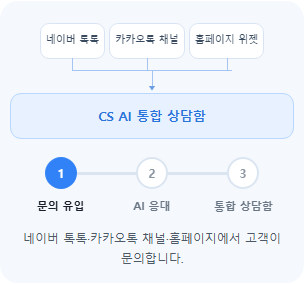
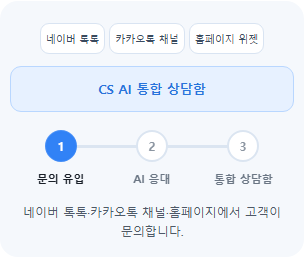
style: remove consultation connector lines

diff --git a/web/step-progress.js b/web/step-progress.js
@@ -11,22 +11,6 @@
     const buttons = [...root.querySelectorAll('.unify-step')];
     const detail = root.querySelector('.unify-step-detail');
     const bar = root.querySelector('.unify-step-bar');
-    const sources = root.querySelector('.unify-source-list');
-    const alignSources = () => {
-      if (!sources) return;
-      const chips = [...sources.children];
-      if (chips.length < 2) return;
-      const box = sources.getBoundingClientRect();
-      const first = chips[0].getBoundingClientRect();
-      const lastChip = chips[chips.length - 1].getBoundingClientRect();
-      const destination = root.querySelector('.unify-destination').getBoundingClientRect();
-      const center = destination.left + destination.width / 2;
-      const reach = Math.max(center - (first.left + first.width / 2), lastChip.left + lastChip.width / 2 - center);
-      sources.style.setProperty('--merge-left', `${center - reach - box.left}px`);
-      sources.style.setProperty('--merge-right', `${box.right - center - reach}px`);
-    };
-    const resizeObserver = new ResizeObserver(alignSources);
-    if (sources) { resizeObserver.observe(sources); alignSources(); }
     const line = spring(0, 160, 22);
     const states = buttons.map(() => ({ fill: spring(0, 260, 24), check: spring(0, 140, 20), pop: spring(1, 500, 14) }));
     let current = 0, visible = false, userUntil = 0, nextAt = performance.now() + 1500, last = performance.now();
@@ -52,7 +36,7 @@
     buttons.forEach((button, i) => button.addEventListener('click', () => select(i, true)));
     select(0);
     function frame(now) {
-      if (!root.isConnected) { observer.disconnect(); resizeObserver.disconnect(); return; }
+      if (!root.isConnected) { observer.disconnect(); return; }
       const dt = Math.min((now - last) / 1000, 1 / 30); last = now;
       if (visible && !reduced.matches && now > nextAt && now > userUntil) select((current + 1) % buttons.length);
       if (!reduced.matches) for (let j = 0; j < 4; j++) { step(line, dt / 4); states.forEach(s => { step(s.fill, dt / 4); step(s.check, dt / 4); step(s.pop, dt / 4); }); }

diff --git a/web/landing.css b/web/landing.css
@@ -87,8 +87,8 @@
 .unify-flow strong{display:block}
 @media(max-width:700px){.landing-benefits-cta button{width:100%;text-align:center}.landing-unify .landing-lead{margin-bottom:30px}.unify-arrow{height:38px}.unify-arrow::before{height:25px}.unify-arrow::after{top:20px}}
 .unify-stepper{margin:22px 0 18px;padding:20px 16px 16px;border-radius:18px;background:#f5f8fc}
-.unify-source-list{position:relative;display:flex;justify-content:center;gap:6px;width:max-content;max-width:100%;min-height:48px;margin-inline:auto;padding-bottom:12px}.unify-source-list::after{content:'';position:absolute;bottom:0;left:var(--merge-left,0px);right:var(--merge-right,0px);height:1px;background:#a4c5f3}.unify-source-list span{position:relative;padding:8px 10px;border:1px solid #d9e4f2;border-radius:9px;background:#fff;color:#3a4b60;font-size:11px;text-align:center;white-space:nowrap}.unify-source-list span::after{content:'';position:absolute;top:100%;left:50%;width:1px;height:12px;background:#a4c5f3}
-.unify-merge-line{display:flex;justify-content:center;height:22px}.unify-merge-line span{position:relative;width:1px;height:17px;background:#a4c5f3}.unify-merge-line span::after{content:'';position:absolute;bottom:-3px;left:50%;width:7px;height:5px;background:#6b9fe5;clip-path:polygon(0 0,100% 0,50% 100%);transform:translateX(-50%)}
+.unify-source-list{display:flex;justify-content:center;gap:6px;max-width:100%;margin:0 auto 12px}.unify-source-list span{padding:8px 10px;border:1px solid #d9e4f2;border-radius:9px;background:#fff;color:#3a4b60;font-size:11px;text-align:center;white-space:nowrap}
+.unify-merge-line{display:none}
 .unify-destination{padding:12px;border:1px solid #b9d7ff;border-radius:11px;background:#e7f1ff;color:#2875dc;font-size:13px;font-weight:700;text-align:center}
 .unify-step-track{position:relative;display:grid;grid-template-columns:repeat(3,minmax(0,1fr));gap:0;margin:20px 22px 0}
 .unify-step-track::before,.unify-step-bar{position:absolute;top:15px;left:calc(100% / 6);height:3px;border-radius:99px}
